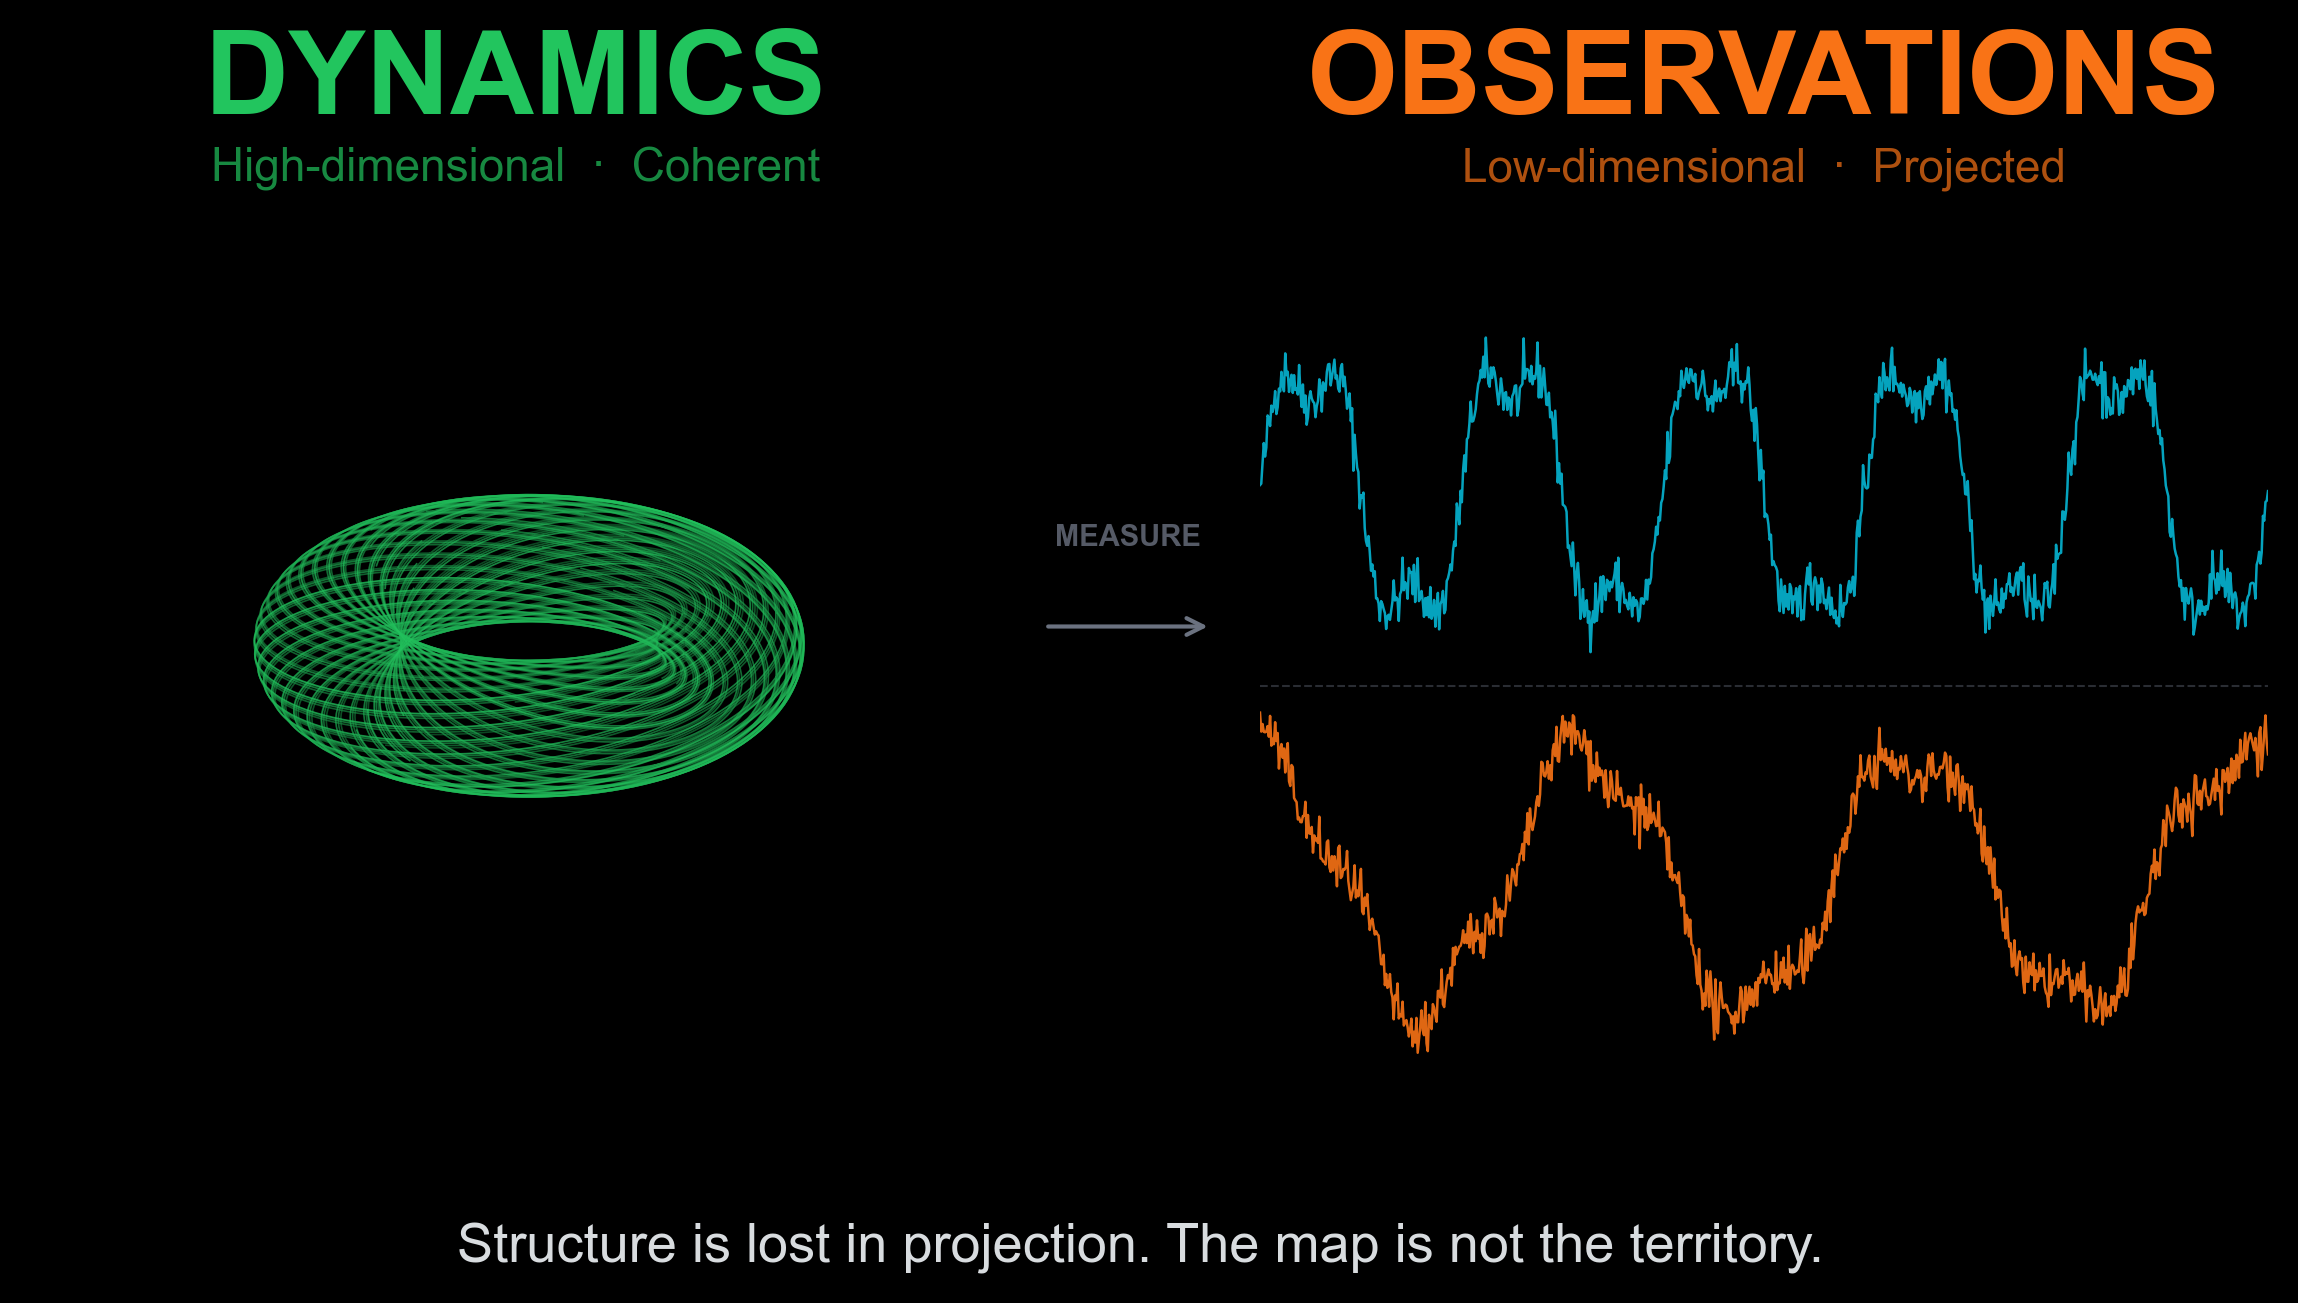
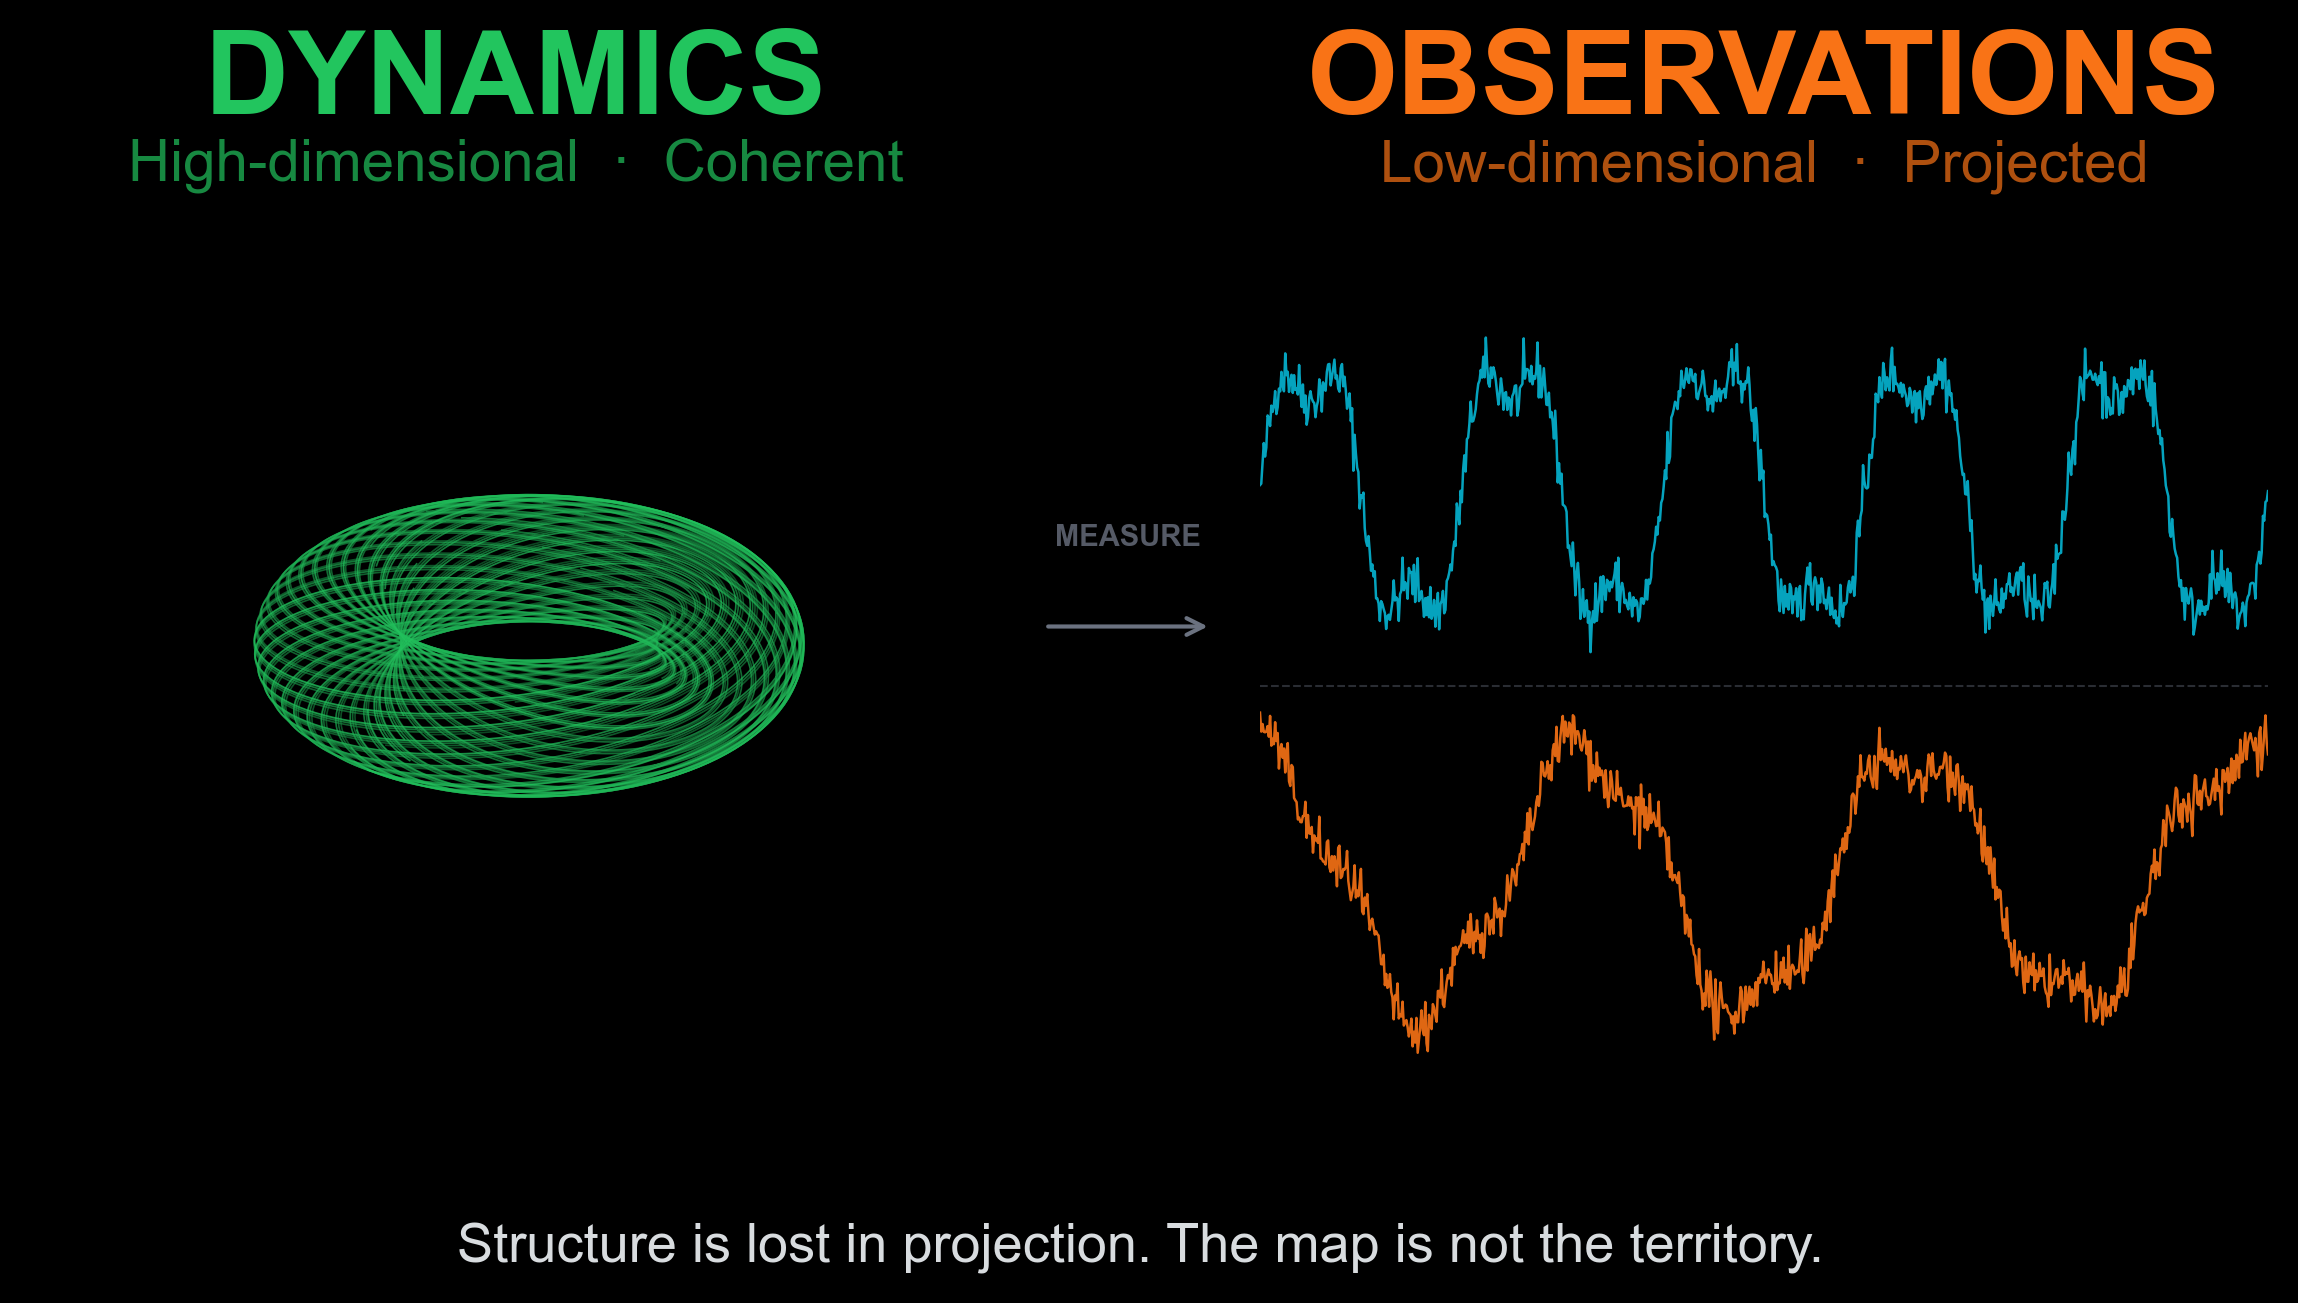
Remove redundant caption, increase image subtitle sizes
- Removed 'Measurement projects complex dynamics...' caption (redundant with image tagline)
- Increased subtitle sizes: 24→32pt hero image, 22→28pt measurement image

🤖 Generated with [Claude Code](https://claude.com/claude-code)

Changed region(s): [[0.587, 0.0921, 0.9269, 0.1535], [0.0618, 0.0921, 0.2472, 0.1535], [0.2781, 0.0921, 0.4017, 0.1535]]

diff --git a/src/app/page.tsx b/src/app/page.tsx
@@ -80,9 +80,6 @@ export default function Home() {
               height={300}
               className="rounded-xl"
             />
-            <p className="text-sm text-gray-500 text-center">
-              Measurement projects complex dynamics into a simple feature.
-            </p>
           </div>
         </div>
       </section>

diff --git a/scripts/generate_homepage_figures.py b/scripts/generate_homepage_figures.py
@@ -55,7 +55,7 @@ def create_hero_image():
 
     # Consistent sizing - larger for impact
     title_size = 64
-    subtitle_size = 24
+    subtitle_size = 32
 
     # Left panel: Bits (scattered random points - chaos, no structure)
     ax1 = fig.add_axes([0.03, 0.12, 0.44, 0.72], facecolor=BLACK)
@@ -122,7 +122,7 @@ def create_measurement_image():
     fig = plt.figure(figsize=(16, 9), facecolor=BLACK)
 
     title_size = 56
-    subtitle_size = 22
+    subtitle_size = 28
 
     # Left panel: Torus with many trajectories (high-dimensional state)
     ax1 = fig.add_axes([0.03, 0.12, 0.42, 0.72], facecolor=BLACK, projection='3d')
